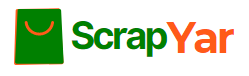
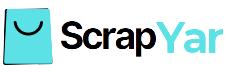
setup mobile-header

diff --git a/client/src/components/navbar/Navbar.js b/client/src/components/navbar/Navbar.js
@@ -1,29 +1,29 @@
-import * as React from 'react';
+import * as React from "react";
 import "./style.css";
-import AppBar from '@mui/material/AppBar';
-import Box from '@mui/material/Box';
-import CssBaseline from '@mui/material/CssBaseline';
-import Divider from '@mui/material/Divider';
-import Drawer from '@mui/material/Drawer';
-import IconButton from '@mui/material/IconButton';
-import List from '@mui/material/List';
-import ListItem from '@mui/material/ListItem';
-import ListItemButton from '@mui/material/ListItemButton';
-import ListItemIcon from '@mui/material/ListItemIcon';
-import ListItemText from '@mui/material/ListItemText';
-import MenuIcon from '@mui/icons-material/Menu';
-import Toolbar from '@mui/material/Toolbar';
-import Typography from '@mui/material/Typography';
-import Button from '@mui/material/Button';
-import ListItemAvatar from '@mui/material/ListItemAvatar';
-import Avatar from '@mui/material/Avatar';
-import WhatshotOutlinedIcon from '@mui/icons-material/WhatshotOutlined';
-import PhotoCameraOutlinedIcon from '@mui/icons-material/PhotoCameraOutlined';
-import LocalMallOutlinedIcon from '@mui/icons-material/LocalMallOutlined';
-import ShoppingBasketOutlinedIcon from '@mui/icons-material/ShoppingBasketOutlined';
-import HelpOutlinedIcon from '@mui/icons-material/HelpOutlined';
+import Select from "./Select";
+import AppBar from "@mui/material/AppBar";
+import Box from "@mui/material/Box";
+import CssBaseline from "@mui/material/CssBaseline";
+import Divider from "@mui/material/Divider";
+import Drawer from "@mui/material/Drawer";
+import IconButton from "@mui/material/IconButton";
+import List from "@mui/material/List";
+import ListItem from "@mui/material/ListItem";
+import ListItemButton from "@mui/material/ListItemButton";
+import ListItemIcon from "@mui/material/ListItemIcon";
+import ListItemText from "@mui/material/ListItemText";
+import MenuIcon from "@mui/icons-material/Menu";
+import Toolbar from "@mui/material/Toolbar";
+import Button from "@mui/material/Button";
+import ListItemAvatar from "@mui/material/ListItemAvatar";
+import Avatar from "@mui/material/Avatar";
+import WhatshotOutlinedIcon from "@mui/icons-material/WhatshotOutlined";
+import PhotoCameraOutlinedIcon from "@mui/icons-material/PhotoCameraOutlined";
+import LocalMallOutlinedIcon from "@mui/icons-material/LocalMallOutlined";
+import ShoppingBasketOutlinedIcon from "@mui/icons-material/ShoppingBasketOutlined";
+import HelpOutlinedIcon from "@mui/icons-material/HelpOutlined";
 
-const navItems = ['Start Selling', 'ScrapYar', 'Help'];
+const navItems = [ "ScrapArt", "Orders"];
 
 function DrawerAppBar(props) {
   const { window } = props;
@@ -34,92 +34,100 @@ function DrawerAppBar(props) {
   };
 
   const drawer = (
-    <Box onClick={handleDrawerToggle} sx={{ textAlign: 'center' }}>
-            <ListItemButton sx={{ pt: 2, pb: 2 }}>
-              <ListItemAvatar sx={{ width: 60, height: 60 }}>
-                <Avatar
-                  src={`/static/images/avatar/jp.jpg`}
-                  sx={{ width: 100+"%", height: 100+"%" }}
-                />
-              </ListItemAvatar>
-              <ListItemText sx={{ pl: 2 }} primary="Anushka Nalawade" />
-            </ListItemButton>
+    <Box onClick={handleDrawerToggle} sx={{ textAlign: "center" }}>
+      <ListItemButton sx={{ pt: 2, pb: 2 }}>
+        <ListItemAvatar sx={{ width: 60, height: 60 }}>
+          <Avatar
+            src={`/static/images/avatar/jp.jpg`}
+            sx={{ width: 100 + "%", height: 100 + "%" }}
+          />
+        </ListItemAvatar>
+        <ListItemText sx={{ pl: 2 }} primary="Anushka Nalawade" />
+      </ListItemButton>
       <Divider />
-      <List sx={{ pt : 1 }} className="mobile-menu-list">
-            <ListItem disablePadding>
-            <ListItemButton>
-              <ListItemIcon>
-                <PhotoCameraOutlinedIcon />
-              </ListItemIcon>
-              <ListItemText primary="Start Selling" />
-            </ListItemButton>
-          </ListItem>
-          <ListItem disablePadding>
-            <ListItemButton>
-              <ListItemIcon>
-                <LocalMallOutlinedIcon/>
-              </ListItemIcon>
-              <ListItemText primary="Your Orders" />
-            </ListItemButton>
-          </ListItem>
-          <ListItem disablePadding>
-            <ListItemButton>
-              <ListItemIcon>
-                <ShoppingBasketOutlinedIcon />
-              </ListItemIcon>
-              <ListItemText primary="ScrapArt" />
-            </ListItemButton>
-          </ListItem>
-          <ListItem sx={{ pb : 1 }} disablePadding>
-            <ListItemButton>
-              <ListItemIcon>
-                <WhatshotOutlinedIcon />
-              </ListItemIcon>
-              <ListItemText primary="Deals" />
-            </ListItemButton>
-          </ListItem>
-          <Divider />
-          <ListItem sx={{ pt : 1 }} disablePadding>
-            <ListItemButton>
-              <ListItemIcon>
-                <HelpOutlinedIcon />
-              </ListItemIcon>
-              <ListItemText primary="Help" />
-            </ListItemButton>
-          </ListItem>
+      <List sx={{ pt: 1 }} className="mobile-menu-list">
+        <ListItem disablePadding>
+          <ListItemButton>
+            <ListItemIcon>
+              <PhotoCameraOutlinedIcon />
+            </ListItemIcon>
+            <ListItemText primary="Start Selling" />
+          </ListItemButton>
+        </ListItem>
+        <ListItem disablePadding>
+          <ListItemButton>
+            <ListItemIcon>
+              <LocalMallOutlinedIcon />
+            </ListItemIcon>
+            <ListItemText primary="Your Orders" />
+          </ListItemButton>
+        </ListItem>
+        <ListItem disablePadding>
+          <ListItemButton>
+            <ListItemIcon>
+              <ShoppingBasketOutlinedIcon />
+            </ListItemIcon>
+            <ListItemText primary="ScrapArt" />
+          </ListItemButton>
+        </ListItem>
+        <ListItem sx={{ pb: 1 }} disablePadding>
+          <ListItemButton>
+            <ListItemIcon>
+              <WhatshotOutlinedIcon />
+            </ListItemIcon>
+            <ListItemText primary="Deals" />
+          </ListItemButton>
+        </ListItem>
+        <Divider />
+        <ListItem sx={{ pt: 1 }} disablePadding>
+          <ListItemButton>
+            <ListItemIcon>
+              <HelpOutlinedIcon />
+            </ListItemIcon>
+            <ListItemText primary="Help" />
+          </ListItemButton>
+        </ListItem>
       </List>
     </Box>
   );
 
-  const container = window !== undefined ? () => window().document.body : undefined;
+  const container =
+    window !== undefined ? () => window().document.body : undefined;
 
   return (
-    <Box sx={{ display: 'flex' }}>
+    <Box sx={{ display: "flex" }}>
       <CssBaseline />
-      <AppBar component="nav">
-        <Toolbar>
+      <AppBar sx={{ bgcolor: "#fff" }} component="nav">
+        <Toolbar sx={{ pt: 1, pb: 1 }}>
           <IconButton
-            color="inherit"
+            color="black"
             aria-label="open drawer"
             edge="start"
             onClick={handleDrawerToggle}
-            sx={{ mr: 2, display: { sm: 'none' } }}
+            sx={{ mr: 2, display: { sm: "none" } }}
           >
             <MenuIcon />
           </IconButton>
-          <Typography
-            variant="h6"
-            component="div"
-            sx={{ flexGrow: 1, display: { xs: 'none', sm: 'block' } }}
-          >
-            MUI
-          </Typography>
-          <Box sx={{ display: { xs: 'none', sm: 'block' } }}>
+          <Box sx={{ width: { xs: 40 + "%", lg: 10+"rem" }, ml: -2, pt: 1 }}>
+            <img
+              className="brand-img"
+              alt="brand"
+              src="https://github.com/tanmay2626/Re-commerce/blob/nav-bar/client/src/assets/brand.png?raw=true"
+            />
+          </Box>
+          <Select />
+          <Box sx={{ flexGrow: 1, textAlign: "right" ,display: { xs: "none", sm: "block" } }}>
+          <Button  sx={{ color: "black", textTransform: "none", mr: 3 }}>
+                Sell
+              </Button>
             {navItems.map((item) => (
-              <Button key={item} sx={{ color: '#fff' }}>
+              <Button key={item} sx={{ color: "black", textTransform: "none", mr: 3 }}>
                 {item}
               </Button>
             ))}
+            <Button  sx={{ color: "black", textTransform: "none"}}>
+                Sign In
+              </Button>
           </Box>
         </Toolbar>
       </AppBar>
@@ -133,8 +141,8 @@ function DrawerAppBar(props) {
             keepMounted: true, // Better open performance on mobile.
           }}
           sx={{
-            display: { xs: 'block', sm: 'none' },
-            '& .MuiDrawer-paper': { boxSizing: 'border-box', width: 80+"%" },
+            display: { xs: "block", sm: "none" },
+            "& .MuiDrawer-paper": { boxSizing: "border-box", width: 75 + "%" },
           }}
         >
           {drawer}
@@ -143,7 +151,5 @@ function DrawerAppBar(props) {
     </Box>
   );
 }
-
-
 
 export default DrawerAppBar;

diff --git a/client/src/components/navbar/Select.js b/client/src/components/navbar/Select.js
@@ -1,0 +1,26 @@
+import React,{ useState } from 'react';
+import LocationOnOutlinedIcon from '@mui/icons-material/LocationOnOutlined';
+
+export default function SelectVariants() {
+  const [location, setLocation] = useState("");
+
+  const handleChange = (event) => {
+    setLocation(event.target.value);
+  };
+
+  return (
+    <div className="navbar-select-box">
+    <div className="navbar-select-icon" >
+    <LocationOnOutlinedIcon sx={{ color: "black", width: 100+"%", ml: 0.5  }} />
+    </div>
+    <div className="navbar-select-main">
+    <form>
+        <select className="navbar-select">
+          <option value="volvo">Pune</option>
+          <option value="saab">Delhi</option>
+        </select>
+      </form>
+    </div>
+    </div>
+  );
+}

diff --git a/client/src/components/navbar/style.css b/client/src/components/navbar/style.css
@@ -1,0 +1,33 @@
+
+.brand-img{
+    width: 100%;
+}
+
+.navbar-select-box{
+    display: flex;
+    margin: 10px 0 0 auto;
+    margin-right: -5px;
+    width: 30%;
+}
+
+.navbar-select-icon{
+    flex: 30;
+    
+}
+
+.navbar-select-main{
+    flex: 70;
+}
+
+.navbar-select{
+    margin-top: 5px;
+    border: none;
+    font-weight: 600;
+    font-family: 'Montserrat', sans-serif;
+}
+
+
+
+@media (min-width: 1025px) and (max-width: 1280px){
+    
+}
